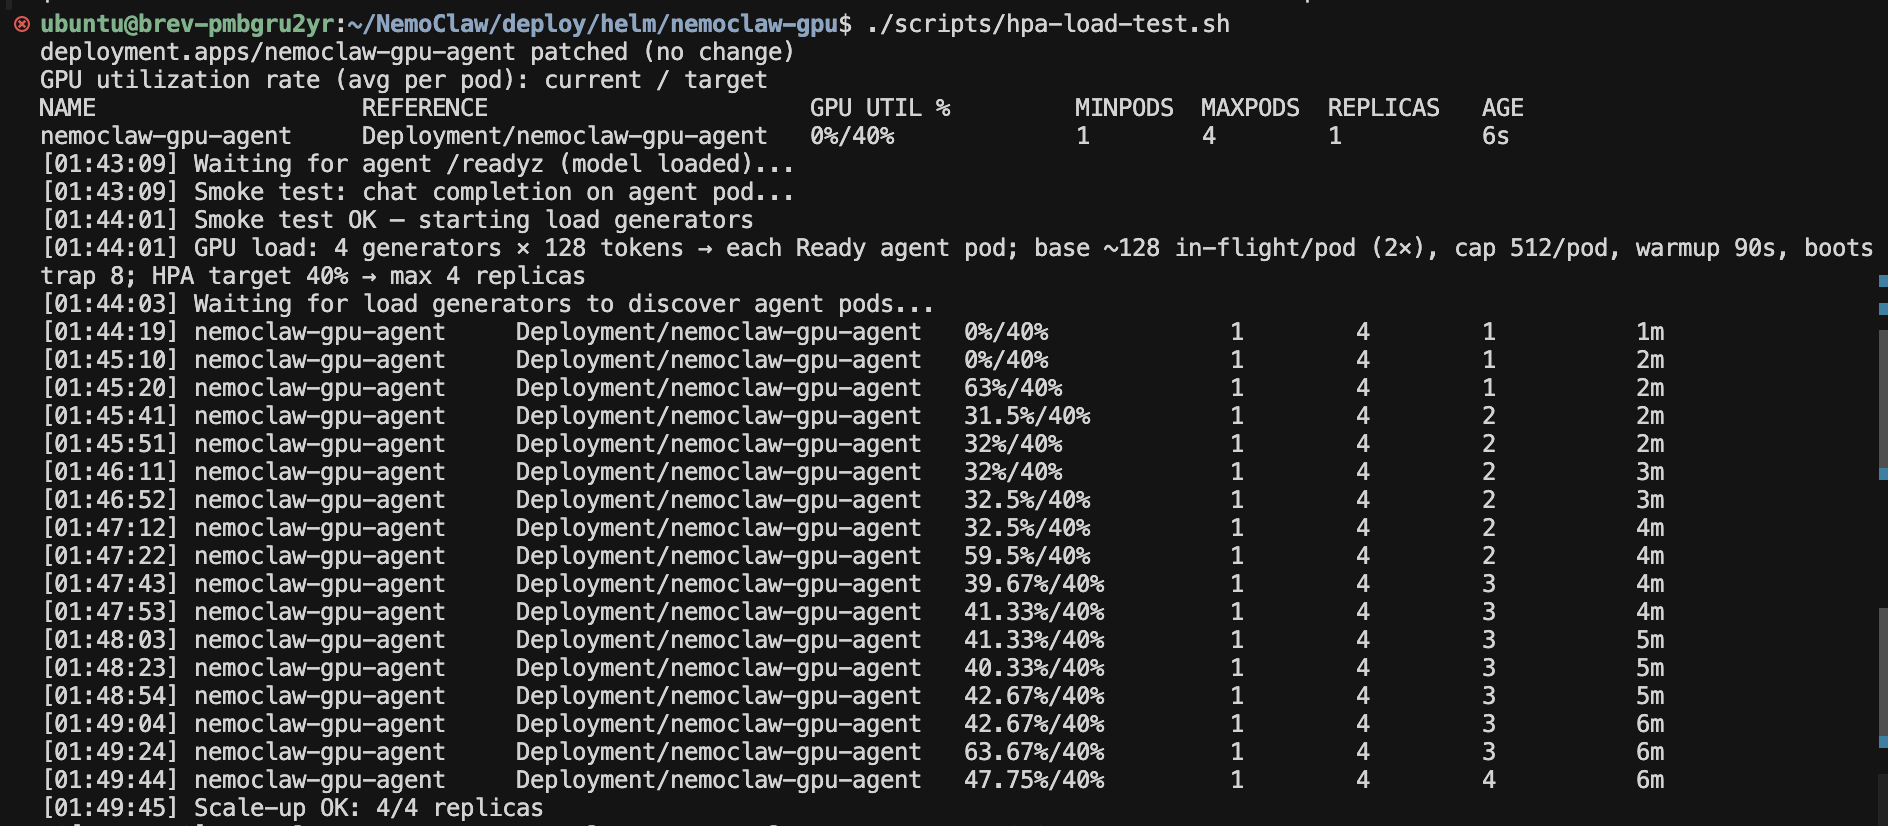
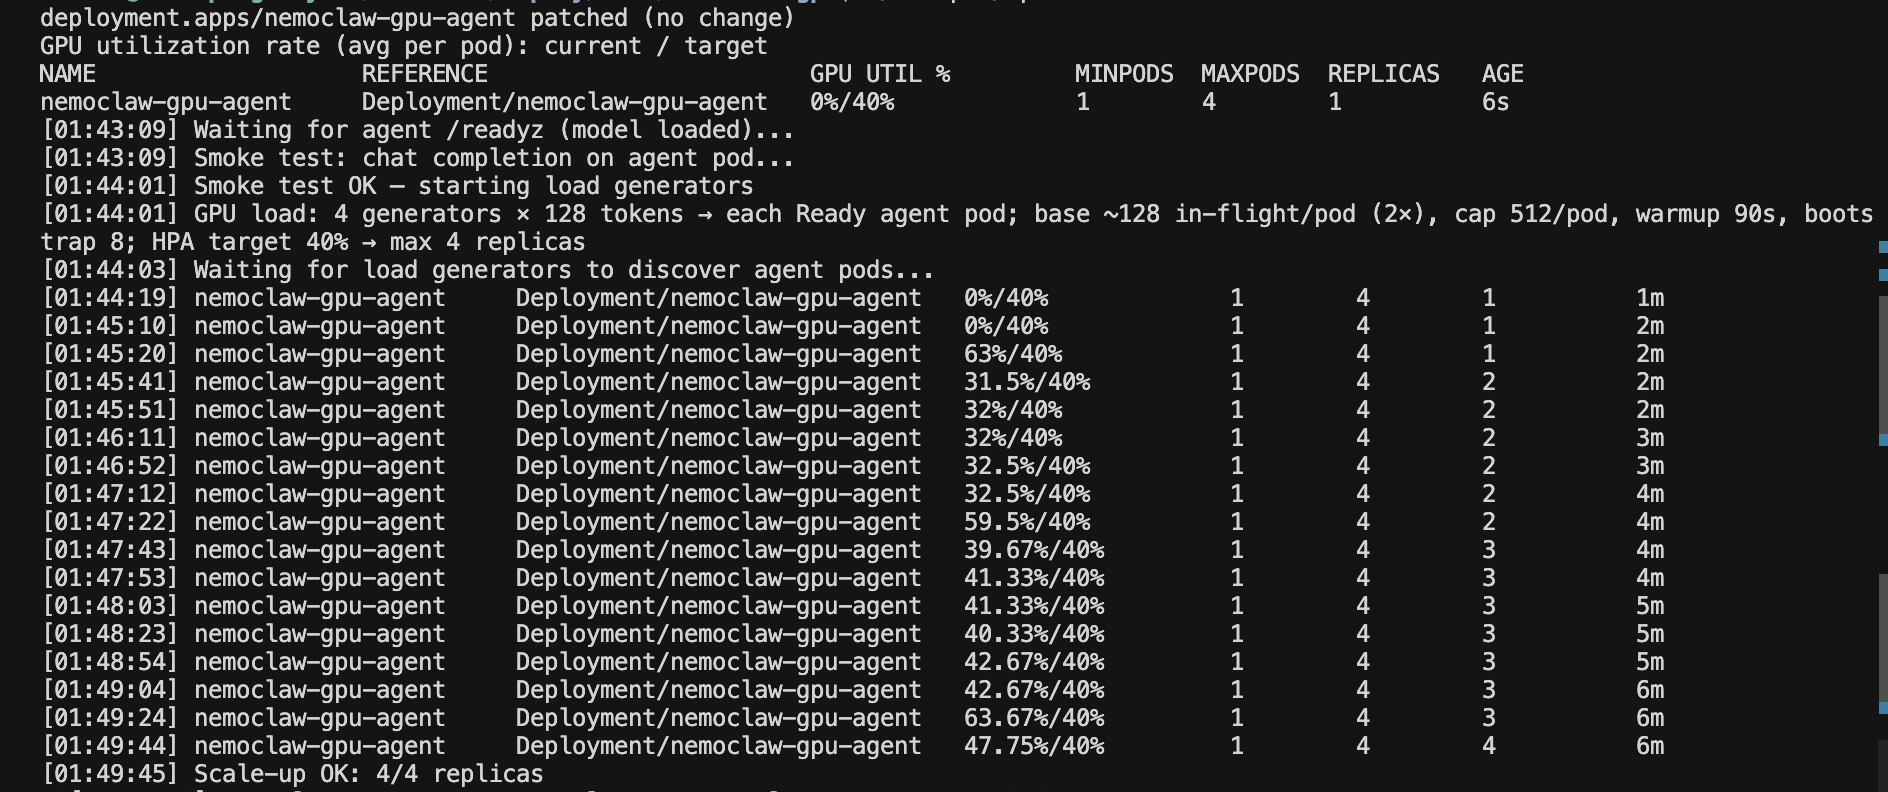
fix(kubernetes): address PR review — GPU-only HPA, pathType, redactions
Link the NemoClaw source to #7459/77334cc, reject unsupported
ingress.pathType values, remove unvalidated latency/request_rate HPA
modes from this recipe, and crop host/path prompts from screenshots.

diff --git a/examples/recipes/nvidia/kubernetes-gpu-autoscaling/README.md b/examples/recipes/nvidia/kubernetes-gpu-autoscaling/README.md
@@ -5,7 +5,9 @@
 
 # NemoClaw Kubernetes GPU autoscaling
 
-Experimental community recipe: a CPU-only NemoClaw/OpenClaw sandbox (OpenShell) sends inference to authenticated Ollama pods in the same cluster. An HPA scales only those Ollama pods. This recipe’s example signal is per-pod GPU utilization; you can switch the HPA to other or custom metrics. Unsupported / non-production.
+Experimental community recipe: a CPU-only NemoClaw/OpenClaw sandbox (OpenShell) sends inference to authenticated Ollama pods in the same cluster. An HPA scales only those Ollama pods on per-pod GPU utilization. Unsupported / non-production.
+
+Source baseline: [NVIDIA/NemoClaw#7459](https://github.com/NVIDIA/NemoClaw/pull/7459) at commit [`77334cc`](https://github.com/NVIDIA/NemoClaw/commit/77334ccbbadba2c5079fe9e99fe80a3cddc846b5) (`deploy/helm/gpu_autoscaling_k8s/`).
 
 **Envoy Gateway is optional.** When enabled (default), Envoy sits in front of the GPU replicas and load-balances with **LeastRequest**: each new request is sent to a Ready backend that currently has the fewest outstanding requests, so busy GPUs get less new traffic than idle ones. Skip Envoy when the agent ClusterIP Service is enough (round-robin / kube-proxy only — no LeastRequest):
 
@@ -42,13 +44,7 @@ HPA (example: GPU utilization)
 
 **Inference API key.** Chart-generated local Secret for Bearer auth on `/v1/models` and chat completions; users do not supply a cloud key. OpenShell injects it for the sandbox — not for Ollama model pulls, and not OpenAI/`NVIDIA_API_KEY`.
 
-**Kubernetes HPA metrics.** GPU utilization is an example autoscaling signal (`DCGM_FI_DEV_GPU_UTIL` → Prometheus → Adapter → HPA) and is the metric validated on the reference hardware. Alternate Pods metrics are supported — for example `latency_p95`:
-
-```bash
-HPA_METRIC=latency_p95 HPA_TARGET_LATENCY_MS=5000 ./scripts/install-hpa.sh
-```
-
-The same mechanism applies to `latency_p50`, `latency_avg`, and `request_rate`. Validate scale-out with `./scripts/hpa-load-test.sh` before using an alternate metric in production-like runs. See [Kubernetes HPA metrics](#kubernetes-hpa-metrics).
+**Kubernetes HPA metrics.** This recipe validates scale-out on GPU utilization (`DCGM_FI_DEV_GPU_UTIL` → Prometheus → Adapter `gpu_utilization_percent` → HPA). Alternate HPA signals (latency, request rate) are deferred to a follow-up PR.
 
 | Default | Value |
 |---------|-------|
@@ -288,38 +284,14 @@ Helm field: `inference.model` in `values.yaml` / `HPA_VALUES`. Env for scripts: 
 
 ### Kubernetes HPA metrics
 
-`install-hpa.sh` always installs Adapter rules for GPU util, latency (p50/p95/avg), and request rate. Pick **one** signal for the HPA:
+This recipe’s validated HPA signal is GPU utilization. `install-hpa.sh` installs the Adapter rule for `gpu_utilization_percent`. Latency and request-rate HPA modes are deferred to a follow-up PR.
 
 ```bash
-# GPU utilization % (default) — good for “need more GPUs”
 ./scripts/install-hpa.sh
-
-# Latency example (confirm with hpa-load-test.sh before treating as validated)
-HPA_METRIC=latency_p95 HPA_TARGET_LATENCY_MS=5000 ./scripts/install-hpa.sh
-HPA_METRIC=latency_p50 HPA_TARGET_LATENCY_MS=2000 ./scripts/install-hpa.sh
-HPA_METRIC=latency_avg HPA_TARGET_LATENCY_MS=3000 ./scripts/install-hpa.sh
-
-# Traffic — successful completions per second per pod
-HPA_METRIC=request_rate HPA_TARGET_REQUEST_RATE=2 ./scripts/install-hpa.sh
-```
-
-Keep the same `HPA_METRIC` (and targets) on `hpa-reset.sh` and `hpa-load-test.sh`. Load-test GPU saturation still drives DCGM util; for latency/request_rate tests, ensure chat load is high enough for that metric to move, or override load knobs (`INFLIGHT_PER_GPU`, `DURATION_SEC`, …).
-
-Verify the custom metric API after install:
-
-```bash
-# GPU (default)
 kubectl get --raw \
   '/apis/custom.metrics.k8s.io/v1beta1/namespaces/nemoclaw-gpu/pods/*/gpu_utilization_percent'
-
-# Example latency metric
-kubectl get --raw \
-  '/apis/custom.metrics.k8s.io/v1beta1/namespaces/nemoclaw-gpu/pods/*/nemoclaw_llm_latency_p95_milliseconds'
-
 ./scripts/get-hpa.sh -n nemoclaw-gpu
 ```
-
-Or set Helm `autoscaling.metric` / target fields in `HPA_VALUES` instead of env.
 
 ### Recovery
 
